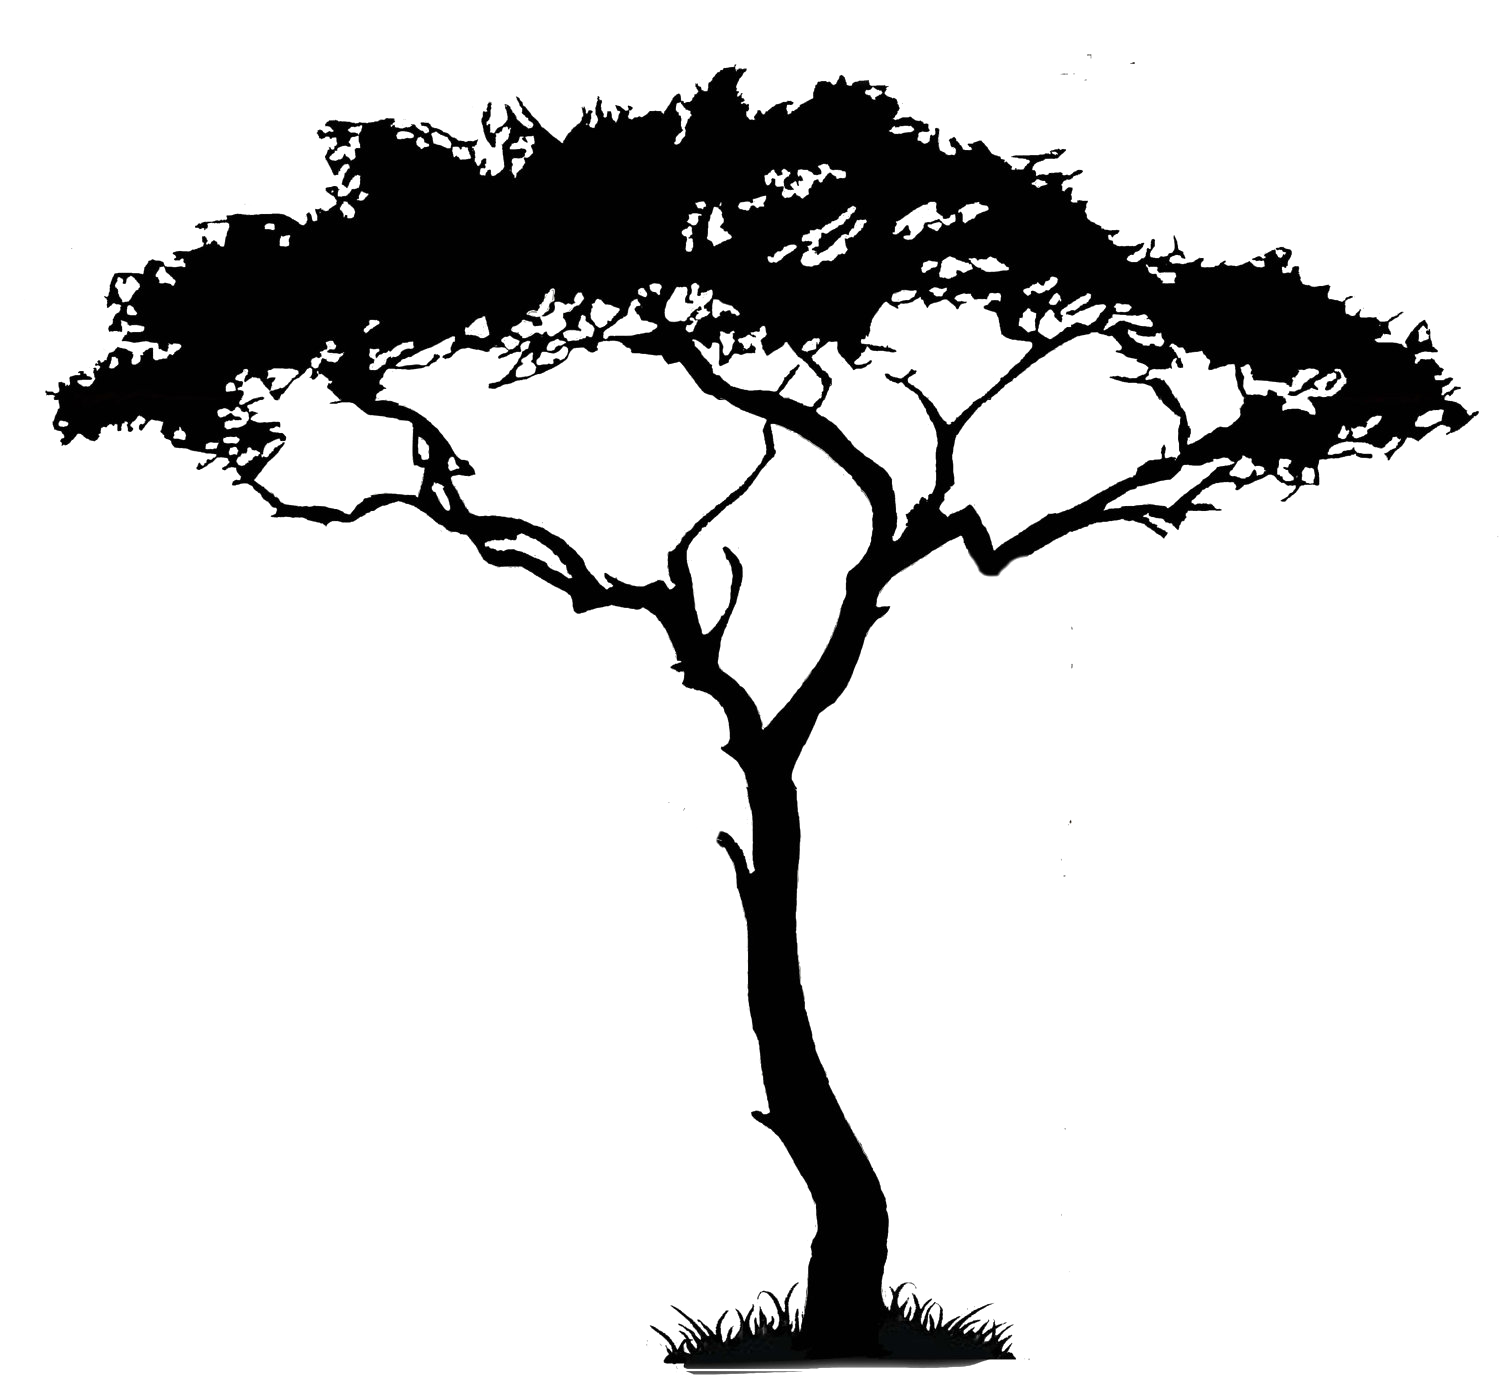
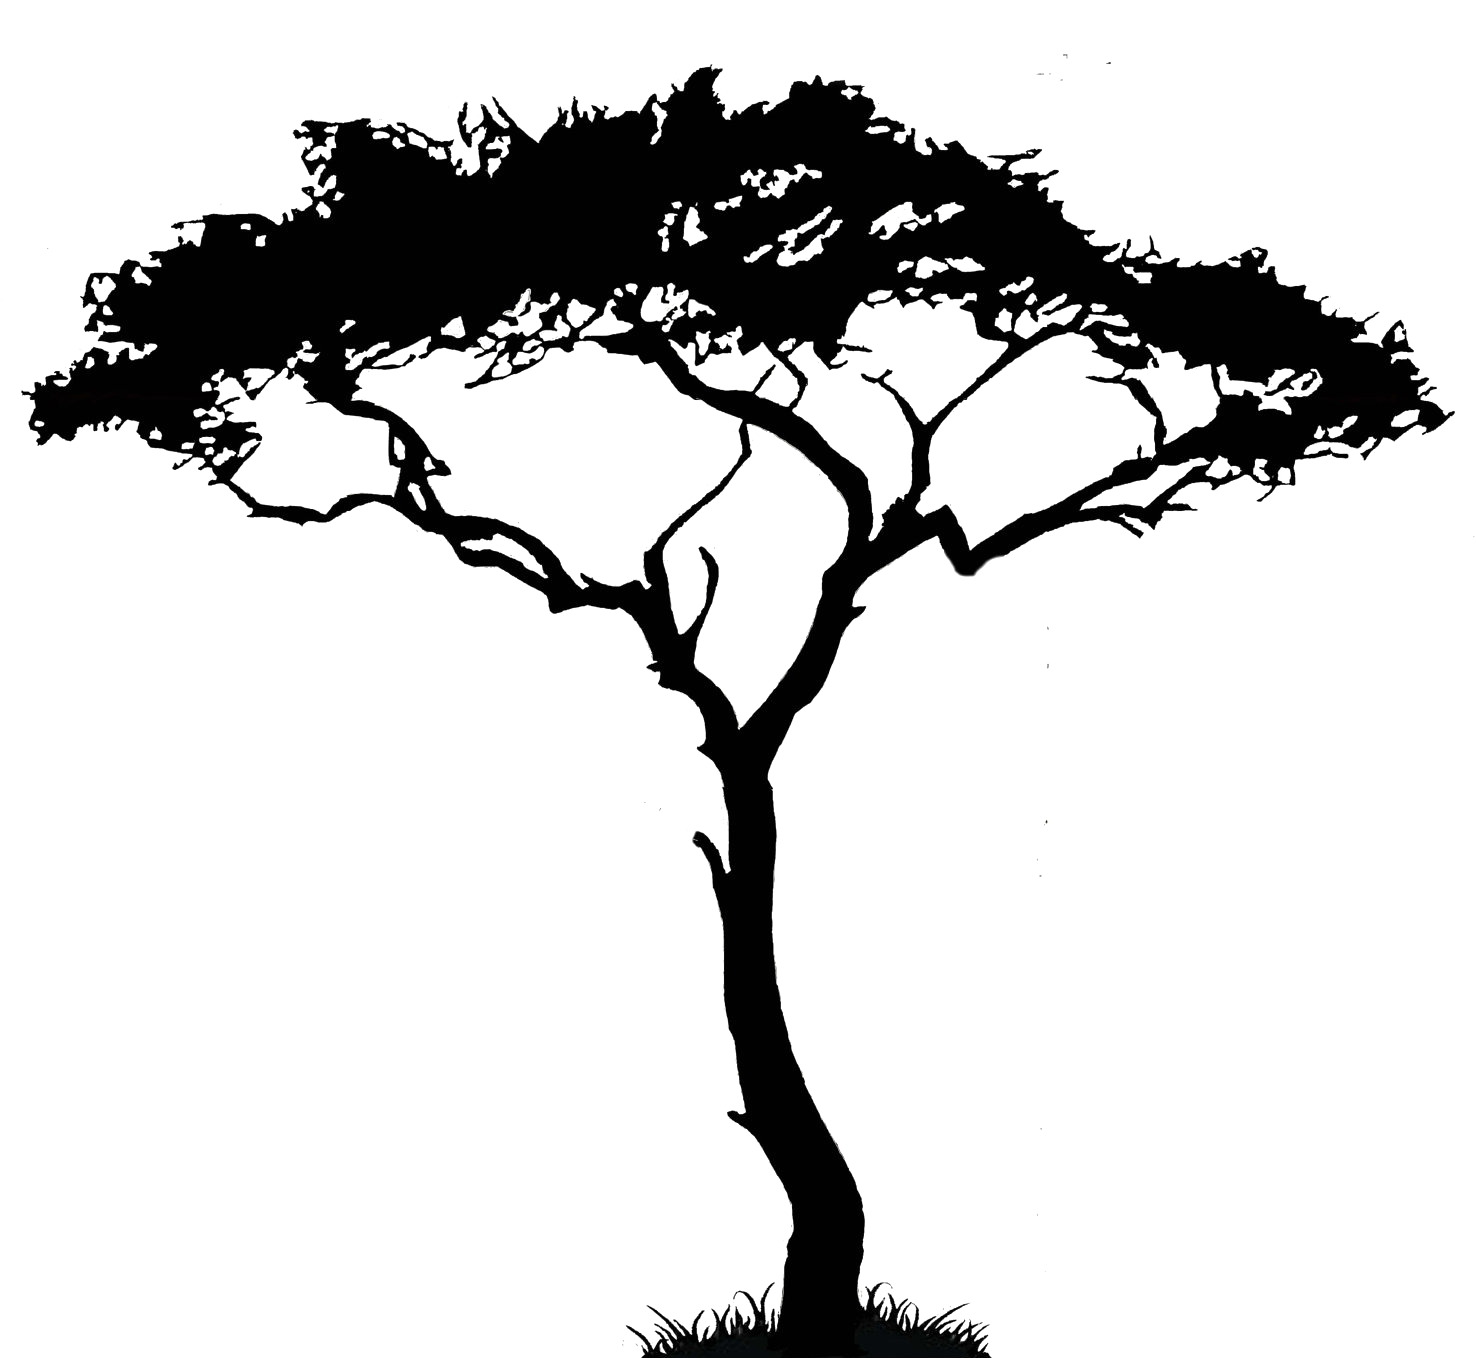
Made the scene keep aspect ratio on all screen sizes

Changed region(s): [[0.0, 0.0309, 0.9973, 1.0], [0.4675, 0.3402, 0.4986, 0.3711]]

diff --git a/js/scripts-min.js b/js/scripts-min.js
@@ -1,5 +1,7 @@
 
 
+// @codekit-append "mouse-position.js"
+
 /**** ITEMS IN SCENE ****/
 
 /** Sun **/
@@ -10,14 +12,61 @@
 
 
 
+/** Get a position variable based on mouse position to add to planets x and y values **/
+(function (){
+	// The mouse x and y values
+	var mouse = {
+		values: {
+			x: {
+				current: 0,
+				to: 0,
+				speed: 40
+			},
+			y: {
+				current: 0,
+				to: 0,
+				speed: 40
+			}
+		}
+	};
+	window['mousePos'] = mouse.values;
+
+	// Start incrementing variables "current" values towards there "to"-values.
+	MoveTo.add(mouse);
+
+	// When mouse moves, set the new "to"-values as the mouse x/y from page center
+	$('#scene').mousemove(function (e){
+		// Get mouse x/y from page center
+		var xx = e.pageX - $('#scene').width()/2,
+			yy = e.pageY - $('#scene').height()/2;	
+
+		// Set new "to"-values
+		mouse.values.x.to = xx;
+		mouse.values.y.to = yy;
+	});
+})($);
+
+
 
 (function (){
 	// Draw the sun
 	var sun = $('<div>');
 	sun.addClass('sun');
+	$('#scene').append(sun);
 
-	// Append
-	$('body').append(sun);
+	// Position based on mouse position
+	var sunSizeMultip = 0.6,
+		sunMarginMultip = 0.2;
+	MoveTo.addFrame(function (){
+		sun.css({
+			left: ($('#scene').width()/2) - (mousePos.x.current * 0.1),
+			top: ($('#scene').height()/2) - (mousePos.y.current * 0.1),
+
+			width: $('#scene').width() * sunSizeMultip,
+			height: $('#scene').width() * sunSizeMultip,
+			marginTop: $('#scene').width() * sunMarginMultip
+		});
+	});
 
 	// Sun position
 	/*var rotateConst = 6.283185307175454;
@@ -68,10 +117,17 @@
 
 
 (function (){
+	// Draw the tree
 	var tree = $('<div>');
 	tree.addClass('tree');
+	$('#scene').append(tree);
 
-	$('body').append(tree);
+	// Position based on mouse position
+	MoveTo.addFrame(function (){
+		tree.css({
+			left: -mousePos.x.current * 0.05
+		});
+	});
 
 })($);
 

diff --git a/sass/style.scss b/sass/style.scss
@@ -26,16 +26,42 @@ $treeLayer: 70;
 	box-sizing: border-box;
 }
 html, body{
-	width: 100%;
 	height: 100%;
+	width: 100%;
+
 	padding: 0;
 	margin: 0;
 	overflow: hidden;
 
 	font-family: 'butchregular';
 }
+$borderWidth: 40px;
+html{
+	/*border: $borderWidth solid #000;*/
+}
+
 body{
-	
+	/*position: absolute;
+	top: $borderWidth;
+	left: $borderWidth;
+	right: $borderWidth;
+	bottom: $borderWidth;*/
+}
+
+
+@mixin viewportRatio($x, $y) {
+  width: 100vw;
+  height: $y * 100vw / $x;
+  max-width: $x / $y * 100vh;
+  max-height: 100vh;
+}
+#scene{
+	position: relative;
+	margin: 0 auto;
+	//background: red;
+	overflow: hidden;
+
+	@include viewportRatio(16,9);
 }
 
 
@@ -45,19 +71,19 @@ body{
 /**** ITEMS ****/
 
 // Sun
-$sunSize: 40vw;
+//$sunSize: 40vh;
 .sun{
 	position: absolute;
 	background: #f8f833;
-	width: $sunSize;
-	height: $sunSize;
+	/*width: $sunSize;
+	height: $sunSize;*/
 	border-radius: 50%;
 	
 	top: 50%;
 	left: 50%;
 	
 	margin-left: 0;
-	margin-top: 20vh;
+	//margin-top: 20vh;
 
 	transform: translateX(-50%)
 			   translateY(-50%);
@@ -71,8 +97,8 @@ $sunSize: 40vw;
 
 	top: 0;
 	left: 0;
-	right: 0;
-	bottom: -20px;
+	width: 100%;
+	height: 100%;
 
 	background-image: url(img/tree.png);
 	background-size: auto 100%;

diff --git a/style.css b/style.css
@@ -11,25 +11,43 @@
   box-sizing: border-box; }
 
 html, body {
-  width: 100%;
   height: 100%;
+  width: 100%;
   padding: 0;
   margin: 0;
   overflow: hidden;
   font-family: 'butchregular'; }
+
+html {
+  /*border: $borderWidth solid #000;*/ }
+
+body {
+  /*position: absolute;
+  top: $borderWidth;
+  left: $borderWidth;
+  right: $borderWidth;
+  bottom: $borderWidth;*/ }
+
+#scene {
+  position: relative;
+  margin: 0 auto;
+  overflow: hidden;
+  width: 100vw;
+  height: 56.25vw;
+  max-width: 177.7777777778vh;
+  max-height: 100vh; }
 
 /**** GAME UI ****/
 /**** ITEMS ****/
 .sun {
   position: absolute;
   background: #f8f833;
-  width: 40vw;
-  height: 40vw;
+  /*width: $sunSize;
+  height: $sunSize;*/
   border-radius: 50%;
   top: 50%;
   left: 50%;
   margin-left: 0;
-  margin-top: 20vh;
   transform: translateX(-50%) translateY(-50%);
   z-index: 50; }
 
@@ -37,8 +55,8 @@ html, body {
   position: absolute;
   top: 0;
   left: 0;
-  right: 0;
-  bottom: -20px;
+  width: 100%;
+  height: 100%;
   background-image: url(img/tree.png);
   background-size: auto 100%;
   background-position: 90% bottom;

diff --git a/js/mouse-position.js b/js/mouse-position.js
@@ -1,0 +1,34 @@
+
+/** Get a position variable based on mouse position to add to planets x and y values **/
+(function (){
+	// The mouse x and y values
+	var mouse = {
+		values: {
+			x: {
+				current: 0,
+				to: 0,
+				speed: 40
+			},
+			y: {
+				current: 0,
+				to: 0,
+				speed: 40
+			}
+		}
+	};
+	window['mousePos'] = mouse.values;
+
+	// Start incrementing variables "current" values towards there "to"-values.
+	MoveTo.add(mouse);
+
+	// When mouse moves, set the new "to"-values as the mouse x/y from page center
+	$('#scene').mousemove(function (e){
+		// Get mouse x/y from page center
+		var xx = e.pageX - $('#scene').width()/2,
+			yy = e.pageY - $('#scene').height()/2;	
+
+		// Set new "to"-values
+		mouse.values.x.to = xx;
+		mouse.values.y.to = yy;
+	});
+})($);

diff --git a/js/items/sun.js b/js/items/sun.js
@@ -4,9 +4,21 @@
 	// Draw the sun
 	var sun = $('<div>');
 	sun.addClass('sun');
+	$('#scene').append(sun);
 
-	// Append
-	$('body').append(sun);
+	// Position based on mouse position
+	var sunSizeMultip = 0.6,
+		sunMarginMultip = 0.2;
+	MoveTo.addFrame(function (){
+		sun.css({
+			left: ($('#scene').width()/2) - (mousePos.x.current * 0.1),
+			top: ($('#scene').height()/2) - (mousePos.y.current * 0.1),
+
+			width: $('#scene').width() * sunSizeMultip,
+			height: $('#scene').width() * sunSizeMultip,
+			marginTop: $('#scene').width() * sunMarginMultip
+		});
+	});
 
 	// Sun position
 	/*var rotateConst = 6.283185307175454;

diff --git a/js/items/tree.js b/js/items/tree.js
@@ -2,9 +2,16 @@
 
 
 (function (){
+	// Draw the tree
 	var tree = $('<div>');
 	tree.addClass('tree');
+	$('#scene').append(tree);
 
-	$('body').append(tree);
+	// Position based on mouse position
+	MoveTo.addFrame(function (){
+		tree.css({
+			left: -mousePos.x.current * 0.05
+		});
+	});
 
 })($);

diff --git a/js/scripts.js b/js/scripts.js
@@ -1,5 +1,7 @@
 
 
+// @codekit-append "mouse-position.js"
+
 /**** ITEMS IN SCENE ****/
 
 /** Sun **/
